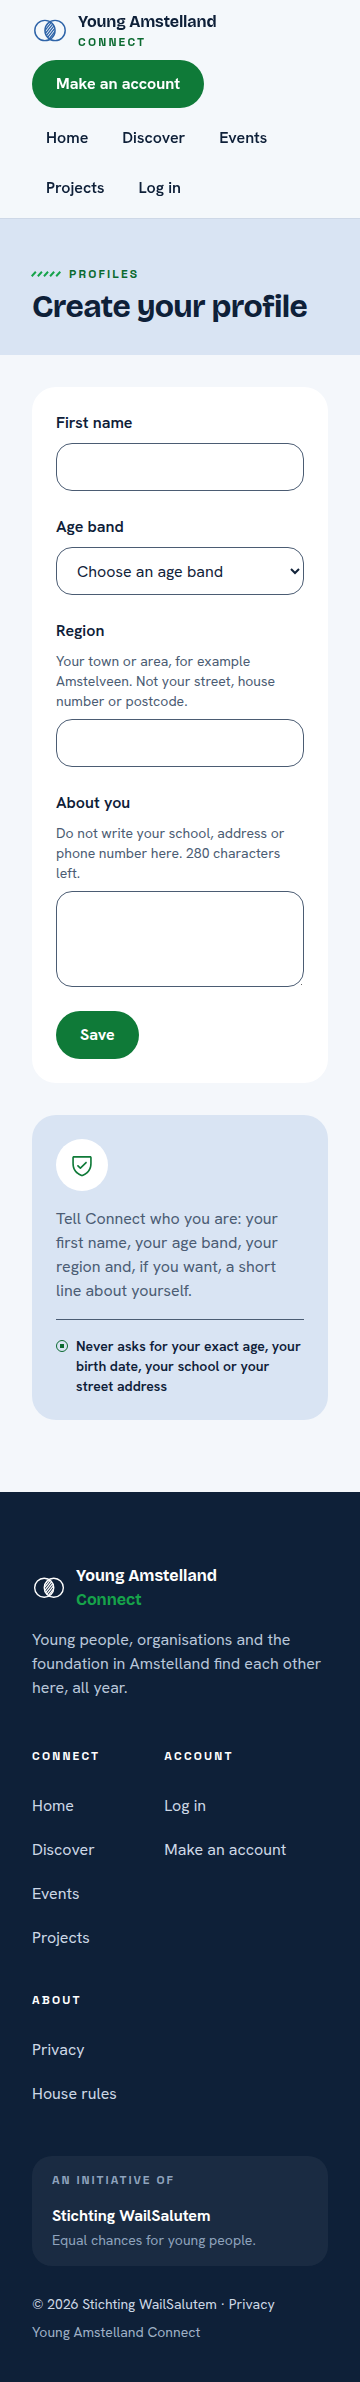
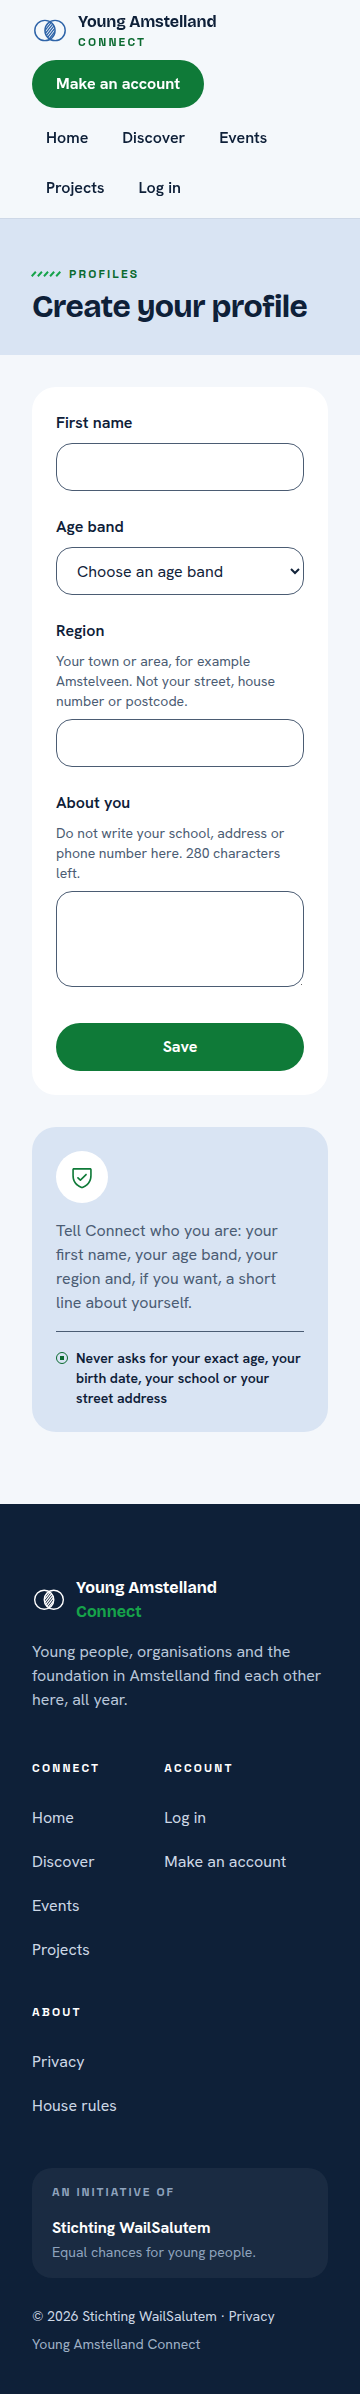
fix(frontend): the Save button full width, as frame G01 draws it (#322)

diff --git a/web/src/pages/CreateProfile.module.css b/web/src/pages/CreateProfile.module.css
@@ -68,10 +68,10 @@
 }
 
 .submit {
-  align-self: flex-start;
-  /* The element selector button of CreateAccount.module.css reaches this page too. */
-  width: auto;
-  margin-top: 0;
+  /* Full width, as frame G01 and Create account draw it. The button sets its own width and
+     margin, because the element selector button of CreateAccount.module.css reaches this page. */
+  width: 100%;
+  margin-top: var(--space-s);
   min-height: var(--button-height);
   padding: var(--space-s) var(--space-l);
   border: none;

diff --git a/docs/wesley/portfolioProof/task322CreateProfilePage.md b/docs/wesley/portfolioProof/task322CreateProfilePage.md
@@ -19,7 +19,7 @@ School asks: "You design and implement systematically, justify choices in relati
    - The state and the call to the server moved from the page into the hook `useCreateProfile`, the way his `useCreateAccount` does it (frontend rule 13).
    - Every field is his `FormField`, which now also draws a hint, a select and a textarea, so the page has no field markup of its own (frontend rule 12). His Create account page renders the same as before, and its tests pass unchanged.
    - The band with the title is a `div`, because `TopBar` already holds the one `header` of the site (frontend rule 16).
-   - The fields now have the corners and the red of `FormField`, the same as Create account, so the two forms of Connect look alike. The element selector `button` of his `CreateAccount.module.css` also reaches this page, so the Save button sets its own width, and the point is on the list for the stand up.
+   - The fields now have the corners and the red of `FormField`, the same as Create account, so the two forms of Connect look alike. The Save button is full width, as frame G01 and Create account draw it. It sets its own width and margin, because the element selector `button` of his `CreateAccount.module.css` also reaches this page, and that point is on the list for the stand up.
 - TODO Wesley: what I changed after a teammate used it on a phone.
 
 ## OR3 Involving stakeholders and weighing their feedback
@@ -39,7 +39,7 @@ School asks: "You systematically validate that the solution does what it should,
 3. **A test broken on purpose.** With the line that moves the focus to First name taken out, the test of the field messages failed, and it passed again once the line was put back.
 4. **What I changed after the first run.** An answer that is not JSON now counts as not reachable instead of breaking the page, and the counter says 1 character left instead of 1 characters left.
 5. **What I changed after checking the Figma frame and the page document.** The first version was one plain column. I compared it with the frame Create your profile and with `docs/pages/CreateProfile.md`, and changed: the band with the eyebrow, the card and the panel beside it, the hints above the fields, the full region hint "Your town or area, for example Amstelveen. Not your street, house number or postcode.", red for a wrong field and for the message above the form, the message above the form as an alert with the title the server sends (so the organisation case of #67 needs no new code), the link See my profile after saving, the message "Your short line can be at most 280 characters" from the page document (in !68), and the counter saying how many characters are too many. The red colours come from the design and are now tokens in `web/src/styles/tokens.css`.
-6. **Where I did not follow the frame, and why.** The fields have the corners and the red of `FormField` since 26 October 2026 (OR1 point 6), where frame G01 draws smaller corners. The borders of the fields are darker than in the frame, because the light line of the frame has a contrast of about 1.4 to 1 with white, and WCAG 2.2 asks 3 to 1 for the border of a field. The panel shows the shield icon the site already has instead of a person icon. The saved message has no drawing yet, because the site has no such picture.
+6. **Where I did not follow the frame, and why.** The fields have the corners and the red of `FormField` since 26 October 2026 (OR1 point 6), and frames G01, G02 and H01 in Figma got the same corners, line and hint above the field that day, so the design and the page match again. The borders of the fields are darker than in the frame, because the light line of the frame has a contrast of about 1.4 to 1 with white, and WCAG 2.2 asks 3 to 1 for the border of a field. The panel shows the shield icon the site already has instead of a person icon. The saved message has no drawing yet, because the site has no such picture.
 7. **What is not covered yet.** The question younger than 16 and the address of a parent come with #40 (task 130.5), with the second line of the panel, "Under 16? We ask for a parent's email once, only to ask permission". The message for a street in Region comes with #26. The link from My account and the page behind log in come with #1538.
 
 ![The empty form at 360 pixels](images/task322EmptyForm360.png)
@@ -59,7 +59,7 @@ School asks: "In your design and implementation, you consciously take into accou
 ## TODO
 
 - [ ] Wesley: the OR1 and OR3 lines above, after a teammate and one person outside the team tried the page on a phone, before anyone approves !69.
-- [ ] Wesley: frame G01 in Figma gets the corners and the red of `FormField`, so the design matches the page again. No change to this branch for it.
+- [x] Wesley: frame G01 in Figma gets the corners and the red of `FormField`, so the design matches the page again. Done on 26 October 2026 in G01, G02 and H01, read back by export.
 - [ ] Wesley: after the merge, tick the boxes of #322 with the evidence in a comment. No change to this branch for it.
 
 ## AI use
